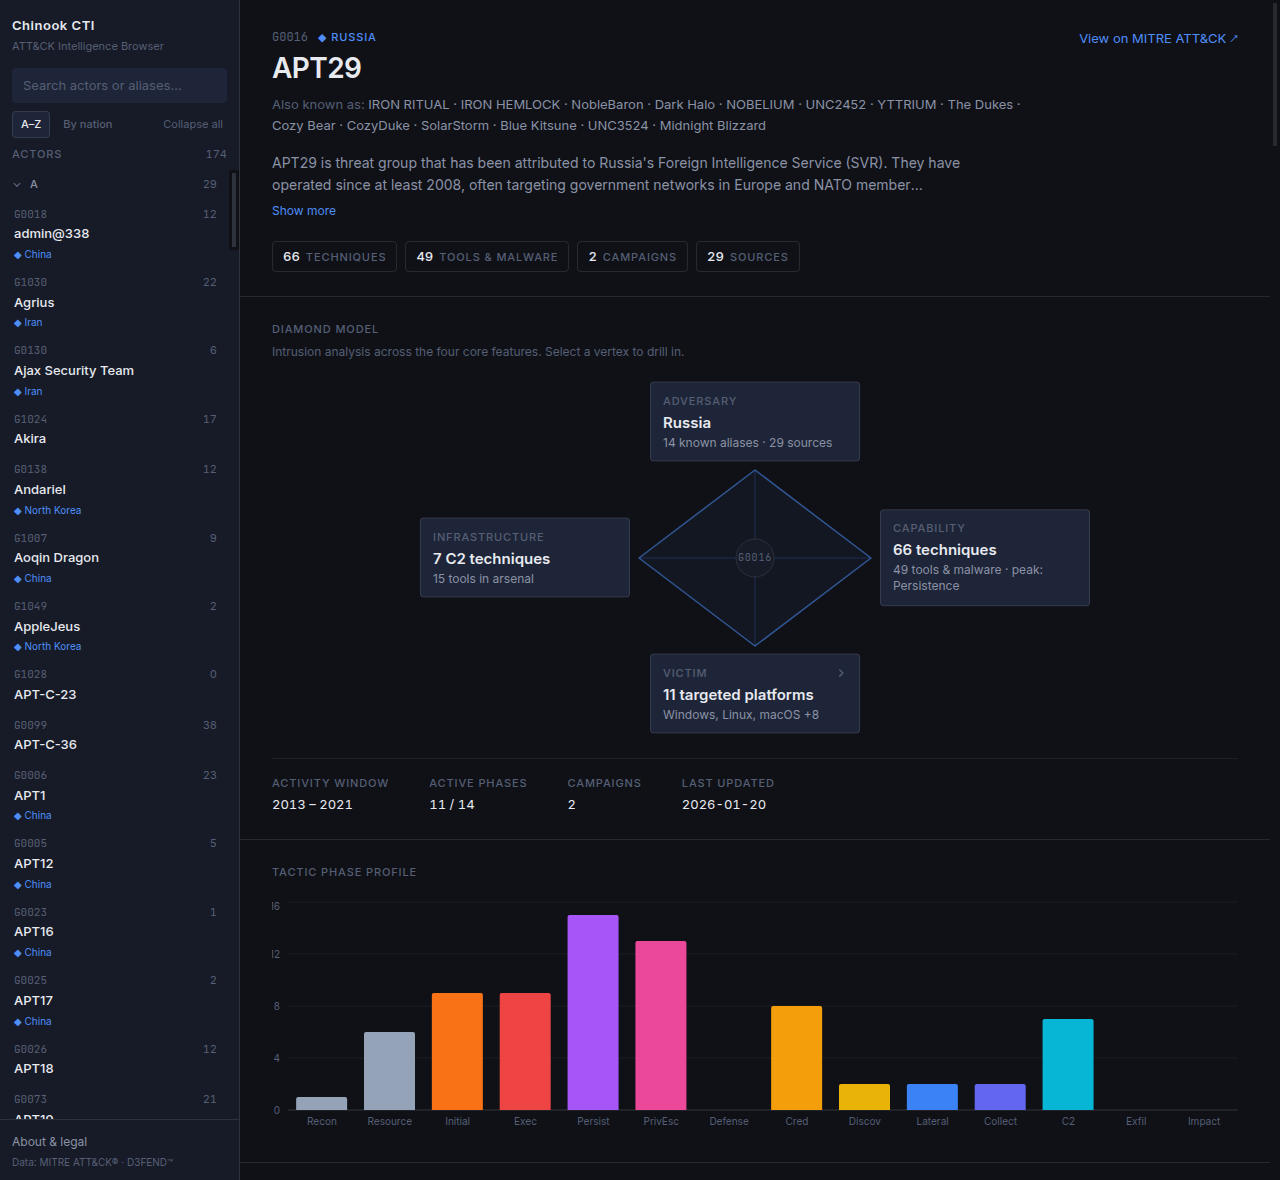
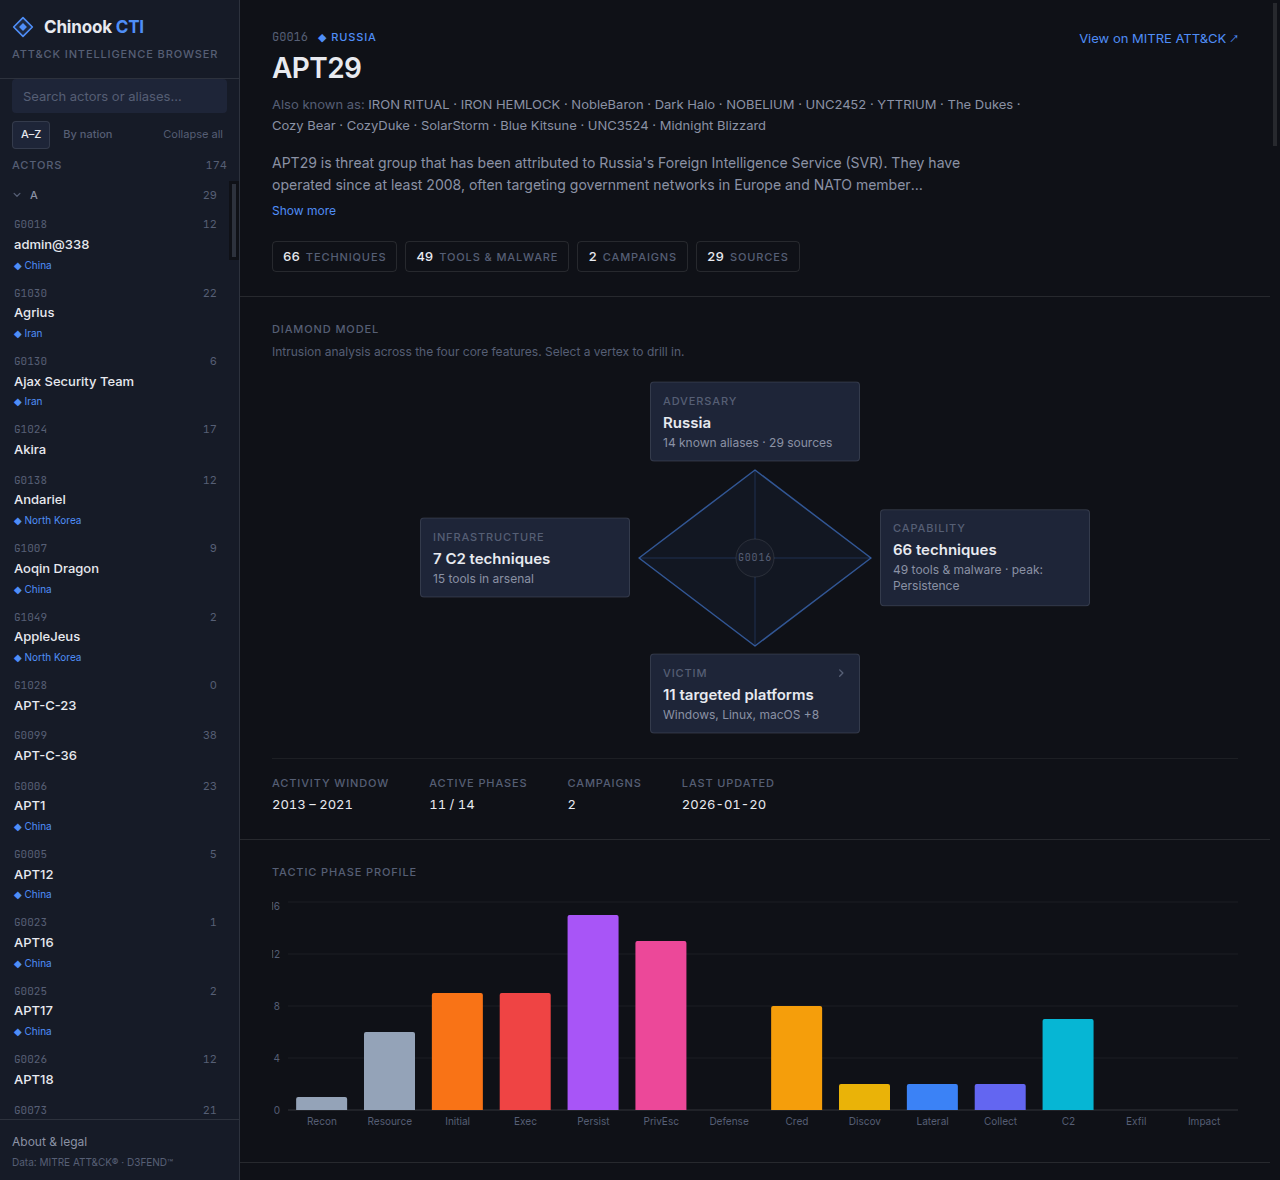
Strengthen the Chinook CTI wordmark
Add a Diamond Model gem mark, larger two-tone wordmark (accent on CTI),
and a framed header divider in the sidebar.

Changed region(s): [[0.0, 0.0, 0.1562, 0.9458], [0.125, 0.0915, 0.1875, 0.1831]]

diff --git a/src/components/layout/ActorSidebar.tsx b/src/components/layout/ActorSidebar.tsx
@@ -151,13 +151,24 @@ export function ActorSidebar() {
       aria-label="Threat actors"
     >
       {/* Brand */}
-      <div className="px-3 pb-3 pt-3.5">
-        <span className="text-[13px] font-semibold tracking-[0.04em]" style={{ color: "var(--text-primary)" }}>
-          Chinook CTI
-        </span>
-        <div className="mt-0.5 text-[11px]" style={{ color: "var(--text-muted)" }}>
-          ATT&CK Intelligence Browser
+      <div className="px-3 pb-3.5 pt-4" style={{ borderBottom: "1px solid var(--border-default)" }}>
+        <div className="flex items-center gap-2.5">
+          <svg width="22" height="22" viewBox="0 0 20 20" fill="none" aria-hidden className="shrink-0">
+            <path
+              d="M10 1.5 L18.5 10 L10 18.5 L1.5 10 Z"
+              fill="var(--accent-glow)"
+              stroke="var(--accent-primary)"
+              strokeWidth="1.5"
+              strokeLinejoin="round"
+            />
+            <path d="M10 6.4 L13.6 10 L10 13.6 L6.4 10 Z" fill="var(--accent-primary)" />
+          </svg>
+          <div className="text-[17px] font-bold leading-none tracking-[-0.01em]">
+            <span style={{ color: "var(--text-primary)" }}>Chinook</span>
+            <span style={{ color: "var(--accent-primary)" }}> CTI</span>
+          </div>
         </div>
+        <div className="data-label mt-2">ATT&CK Intelligence Browser</div>
       </div>
 
       {/* Search */}